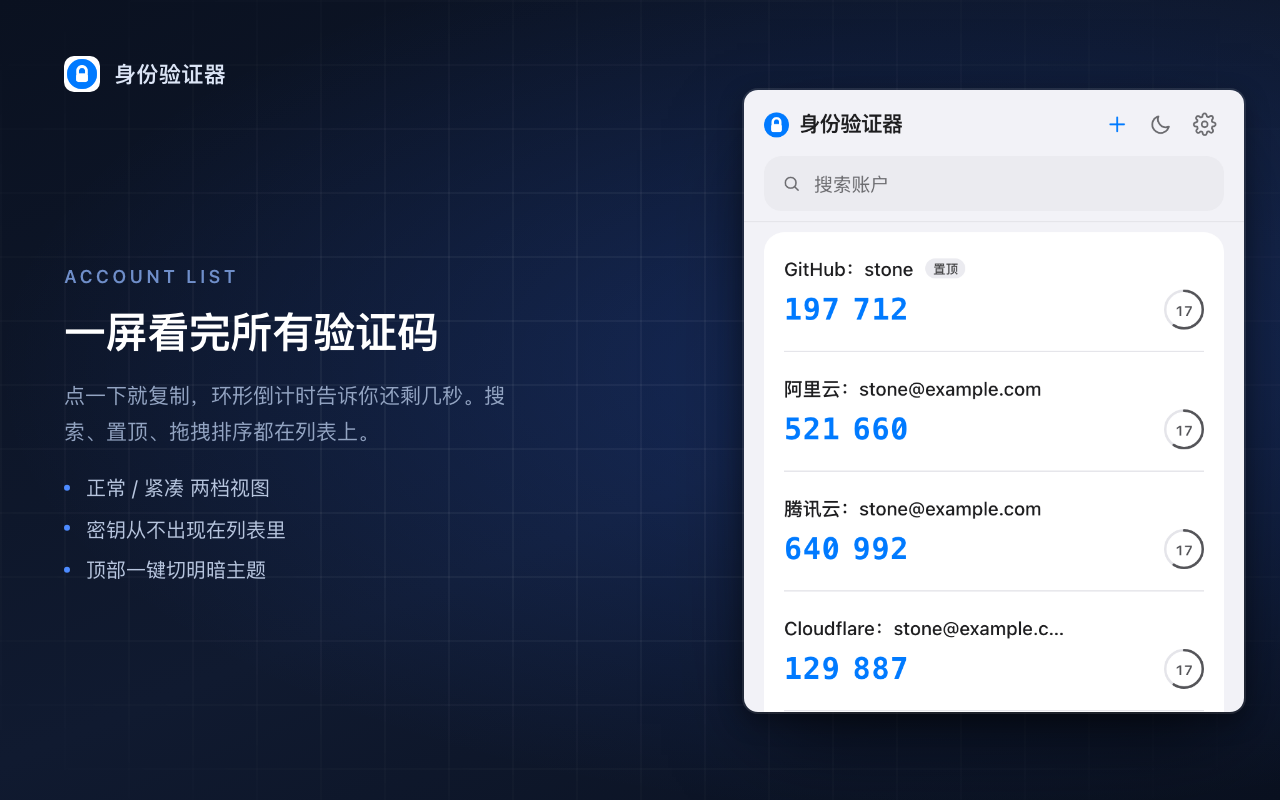
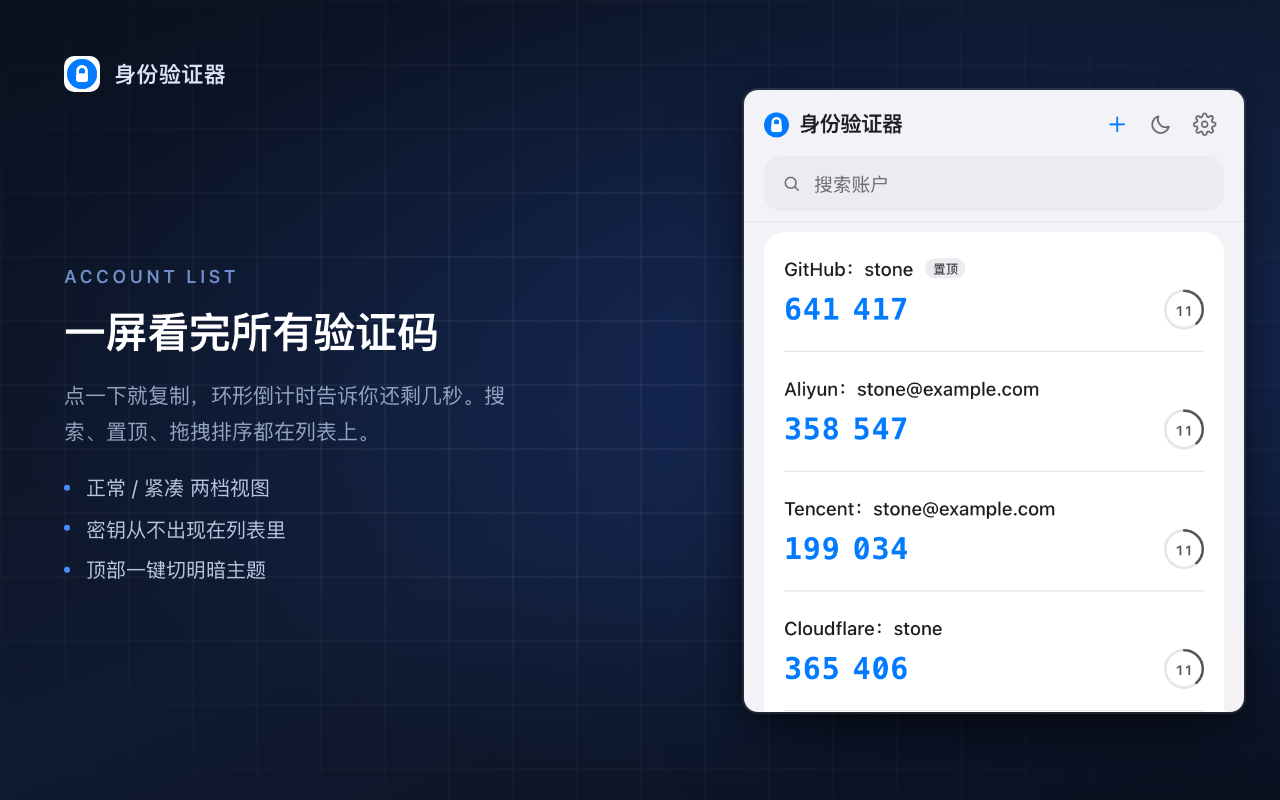
chore(assets): add an English screenshot set
The store now has an en listing and a required "global" screenshot slot, and both
are seen by people whose UI is English: resolveLang only keeps Chinese for zh-*
browsers, everyone else gets the English interface. Chinese screenshots in those
slots show a product that does not match what those users will open.

pnpm shots now captures both sets. The board takes ?lang=en and holds the copy for
each language, since a headline tuned to nine characters per line wraps somewhere
else in English. Crop heights are per language too: the English backup card is one
text line taller, so the Chinese height sliced through a sentence.

The English pass cannot reload the page. The language preference lives inside the
encrypted vault, and ?demo reseeds on every load, so the choice is lost on reload —
it switches language once through the settings menu and then walks the four screens
with the back button. Base URL is overridable via SHOTS_BASE for when 5173 is taken.

Demo issuers become their Latin names (Aliyun, Tencent, WeChat Open Platform):
otpauth issuers are ASCII in practice, and Chinese names read as a half-finished
localisation inside the English shots. Cloudflare's demo account shortens to a bare
username so the fourth row does not end in an ellipsis in the Chinese UI, where
Latin glyphs are wider than the three Han characters they replaced.

diff --git a/scripts/shots/board.html b/scripts/shots/board.html
@@ -162,73 +162,147 @@
   <body>
     <div id="stage"></div>
     <script type="module">
+      /**
+       * 两种语言的排版稿共用一套骨架，只有文案和弹窗原图不同。
+       *
+       * `height` 是弹窗在稿子里的可见高度（稿子 640×400，弹窗按 62.5% 缩放，
+       * 所以 400px 弹窗 → 250px 宽）。每种语言各一个值：同样的界面在英文下
+       * 换行位置不同，卡片底边会上下挪，硬套中文的值会切出半行。
+       */
       const SHOTS = {
         '1': {
           file: '1-list',
-          height: 311,
-          eyebrow: 'Account list',
-          title: '一屏看完所有验证码',
-          body: '点一下就复制，环形倒计时告诉你还剩几秒。搜索、置顶、拖拽排序都在列表上。',
-          bullets: ['正常 / 紧凑 两档视图', '密钥从不出现在列表里', '顶部一键切明暗主题'],
+          height: { zh: 311, en: 311 },
+          zh: {
+            eyebrow: 'Account list',
+            title: '一屏看完所有验证码',
+            body: '点一下就复制，环形倒计时告诉你还剩几秒。搜索、置顶、拖拽排序都在列表上。',
+            bullets: ['正常 / 紧凑 两档视图', '密钥从不出现在列表里', '顶部一键切明暗主题'],
+          },
+          en: {
+            eyebrow: 'Account list',
+            title: 'Every code, one screen',
+            body: 'Click to copy, and the ring shows how long is left. Search, pin and drag to reorder, all in the list itself.',
+            bullets: [
+              'Normal and compact densities',
+              'Secrets never show in the list',
+              'Light and dark from the top bar',
+            ],
+          },
         },
         '2': {
           file: '2-dark',
-          height: 311,
-          eyebrow: 'Dark mode',
-          title: '暗色不是简单反色',
-          body: '背景、卡片、分隔线与强调色各自取过值，黑底上验证码依然一眼可读。',
-          bullets: ['跟随系统，切了立刻生效', '不用重开弹窗', '颜色全部来自 CSS 变量'],
+          height: { zh: 311, en: 311 },
+          zh: {
+            eyebrow: 'Dark mode',
+            title: '暗色不是简单反色',
+            body: '背景、卡片、分隔线与强调色各自取过值，黑底上验证码依然一眼可读。',
+            bullets: ['跟随系统，切了立刻生效', '不用重开弹窗', '颜色全部来自 CSS 变量'],
+          },
+          en: {
+            eyebrow: 'Dark mode',
+            title: 'Dark is not inverted',
+            body: 'Background, cards, dividers and accent colours are each tuned, so codes stay legible on black.',
+            bullets: [
+              'Follows the system, instantly',
+              'No need to reopen the popup',
+              'Every colour is a CSS variable',
+            ],
+          },
         },
         '3': {
           file: '3-scan',
-          height: 237,
-          eyebrow: 'Add by screenshot',
-          // 左栏只有 232px 宽，21px 字号一行最多九个汉字；
-          // 多一个字就会把最后的"来"甩到第二行，看起来像排版出错
-          title: '贴张截图就能加进来',
-          body: '也可以直接粘贴 otpauth 地址或手动输入。识别结果先进表单，确认了才保存。',
-          bullets: ['图片在本地解码，不申请摄像头', '不联网、不上传图片', '识别失败会说清是哪一步'],
+          height: { zh: 237, en: 237 },
+          zh: {
+            eyebrow: 'Add by screenshot',
+            // 左栏只有 232px 宽，21px 字号一行最多九个汉字；
+            // 多一个字就会把最后的"来"甩到第二行，看起来像排版出错
+            title: '贴张截图就能加进来',
+            body: '也可以直接粘贴 otpauth 地址或手动输入。识别结果先进表单，确认了才保存。',
+            bullets: ['图片在本地解码，不申请摄像头', '不联网、不上传图片', '识别失败会说清是哪一步'],
+          },
+          en: {
+            eyebrow: 'Add by screenshot',
+            title: 'Drop in a screenshot',
+            body: 'Pasting an otpauth link or typing it in works too. A scan always lands in a form first, so nothing is saved until you confirm.',
+            bullets: [
+              'Decoded locally, no camera access',
+              'No network, the image never leaves',
+              'Failures say which step went wrong',
+            ],
+          },
         },
         '4': {
           file: '4-backup',
-          height: 285,
-          eyebrow: 'Local & encrypted',
-          title: '密钥只加密存在本地',
-          body: '不同步、不上传，也没有服务器能看到你的密钥。密码可以不设，设了就有恢复码兜底。',
-          bullets: ['AES-256-GCM，密钥始终密文落盘', '忘记密码可用恢复码找回', '每天自动留一份加密备份'],
+          // 英文的备份卡片比中文高一屏文字：456（中文）会切在说明句中间，
+          // 315 → 504px 弹窗高，正好落在卡片下沿之外、下一个分组标题之上
+          height: { zh: 285, en: 315 },
+          zh: {
+            eyebrow: 'Local & encrypted',
+            title: '密钥只加密存在本地',
+            body: '不同步、不上传，也没有服务器能看到你的密钥。密码可以不设，设了就有恢复码兜底。',
+            bullets: [
+              'AES-256-GCM，密钥始终密文落盘',
+              '忘记密码可用恢复码找回',
+              '每天自动留一份加密备份',
+            ],
+          },
+          en: {
+            eyebrow: 'Local & encrypted',
+            title: 'Secrets stay encrypted',
+            body: 'No sync, no upload, and no server that could read your keys. The password is optional, and a recovery code has your back.',
+            bullets: [
+              'AES-256-GCM, always stored encrypted',
+              'Recovery code if the password is lost',
+              'One encrypted snapshot a day',
+            ],
+          },
         },
       };
 
+      const PROMO = {
+        zh: { name: '身份验证器', tagline: '两步验证器 · 本地生成，不联网', chips: ['无账号', '无内购', '可选加密'] },
+        en: { name: 'Authenticator', tagline: 'Two-factor codes, generated on device', chips: ['No account', 'No IAP', 'Optional encryption'] },
+      };
+
+      const BRAND = { zh: '身份验证器', en: 'Authenticator' };
+
       const params = new URLSearchParams(location.search);
+      const lang = params.get('lang') === 'en' ? 'en' : 'zh';
       const stage = document.getElementById('stage');
+      document.documentElement.lang = lang === 'zh' ? 'zh-CN' : 'en';
+      // 英文套的弹窗原图在 raw/en/ 下，中文套保持在 raw/ 根上（历史产物沿用）
+      const rawDir = lang === 'zh' ? '' : 'en/';
 
       if (params.get('board') === 'promo') {
+        const promo = PROMO[lang];
         stage.innerHTML = `
           <div class="promo">
             <img class="mark" src="/icons/128.png" alt="" />
-            <h1>身份验证器</h1>
-            <p>两步验证器 · 本地生成，不联网</p>
+            <h1>${promo.name}</h1>
+            <p>${promo.tagline}</p>
             <div class="chips">
-              <span>无账号</span><span>无内购</span><span>可选加密</span>
+              ${promo.chips.map((c) => `<span>${c}</span>`).join('')}
             </div>
           </div>`;
       } else {
         const shot = SHOTS[params.get('shot') ?? '1'];
-        const { height: cardHeight } = shot;
+        const copy = shot[lang];
+        const cardHeight = shot.height[lang];
         stage.innerHTML = `
           <div class="shot">
             <div class="brand">
               <img src="/icons/128.png" alt="" />
-              <span>身份验证器</span>
+              <span>${BRAND[lang]}</span>
             </div>
             <div class="copy">
-              <div class="eyebrow">${shot.eyebrow}</div>
-              <h1>${shot.title}</h1>
-              <p>${shot.body}</p>
-              <ul>${shot.bullets.map((b) => `<li>${b}</li>`).join('')}</ul>
+              <div class="eyebrow">${copy.eyebrow}</div>
+              <h1>${copy.title}</h1>
+              <p>${copy.body}</p>
+              <ul>${copy.bullets.map((b) => `<li>${b}</li>`).join('')}</ul>
             </div>
             <div class="frame" style="height:${cardHeight}px;top:${(400 - cardHeight) / 2}px">
-              <img src="/scripts/shots/raw/${shot.file}.png" alt="" />
+              <img src="/scripts/shots/raw/${rawDir}${shot.file}.png" alt="" />
             </div>
           </div>`;
       }

diff --git a/src/ui/fixtures/demo.ts b/src/ui/fixtures/demo.ts
@@ -12,9 +12,11 @@ const synthSecret = (seed: number): string =>
 
 const SERVICES = [
   ['GitHub', 'stone'],
-  ['阿里云', 'stone@example.com'],
-  ['腾讯云', 'stone@example.com'],
-  ['Cloudflare', 'stone@example.com'],
+  // 发行方一律用官方拉丁名：otpauth 里的 issuer 本来就是 ASCII 为主，
+  // 而且截图要同时给中英文两套素材用，混着汉字在英文版里像没本地化完
+  ['Aliyun', 'stone@example.com'],
+  ['Tencent', 'stone@example.com'],
+  ['Cloudflare', 'stone'],
   ['Amazon Web Services', 'stone@example.com'],
   ['Google', 'stone@example.com'],
   ['Dropbox', 'stone@example.com'],
@@ -30,7 +32,7 @@ const SERVICES = [
   ['V2EX', 'stone'],
   ['Linode', 'stone@example.com'],
   ['Stripe', 'stone@example.com'],
-  ['微信开放平台', 'stone@example.com'],
+  ['WeChat Open Platform', 'stone@example.com'],
 ] as const;
 
 export const DEMO_ACCOUNTS: Account[] = SERVICES.map(([issuer, account], i) => ({
